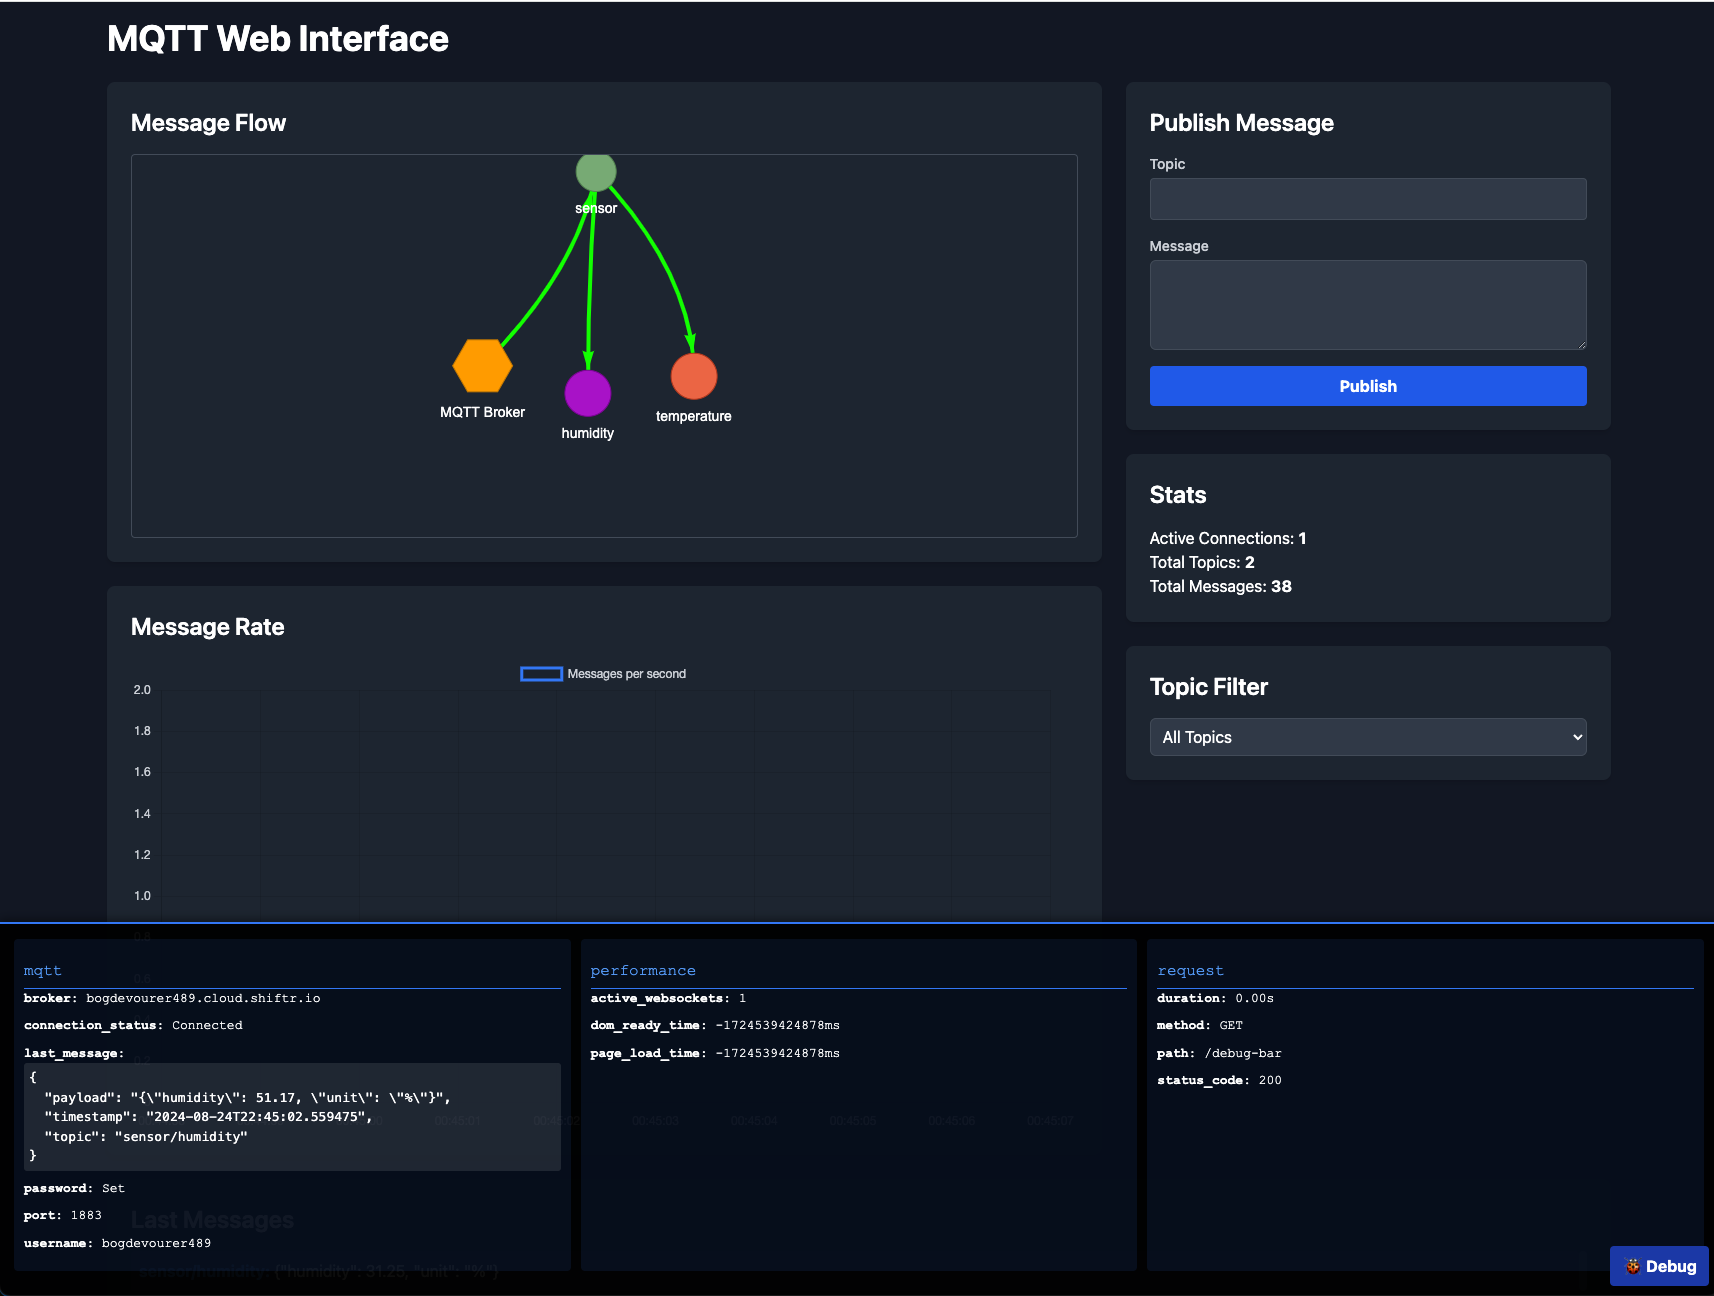
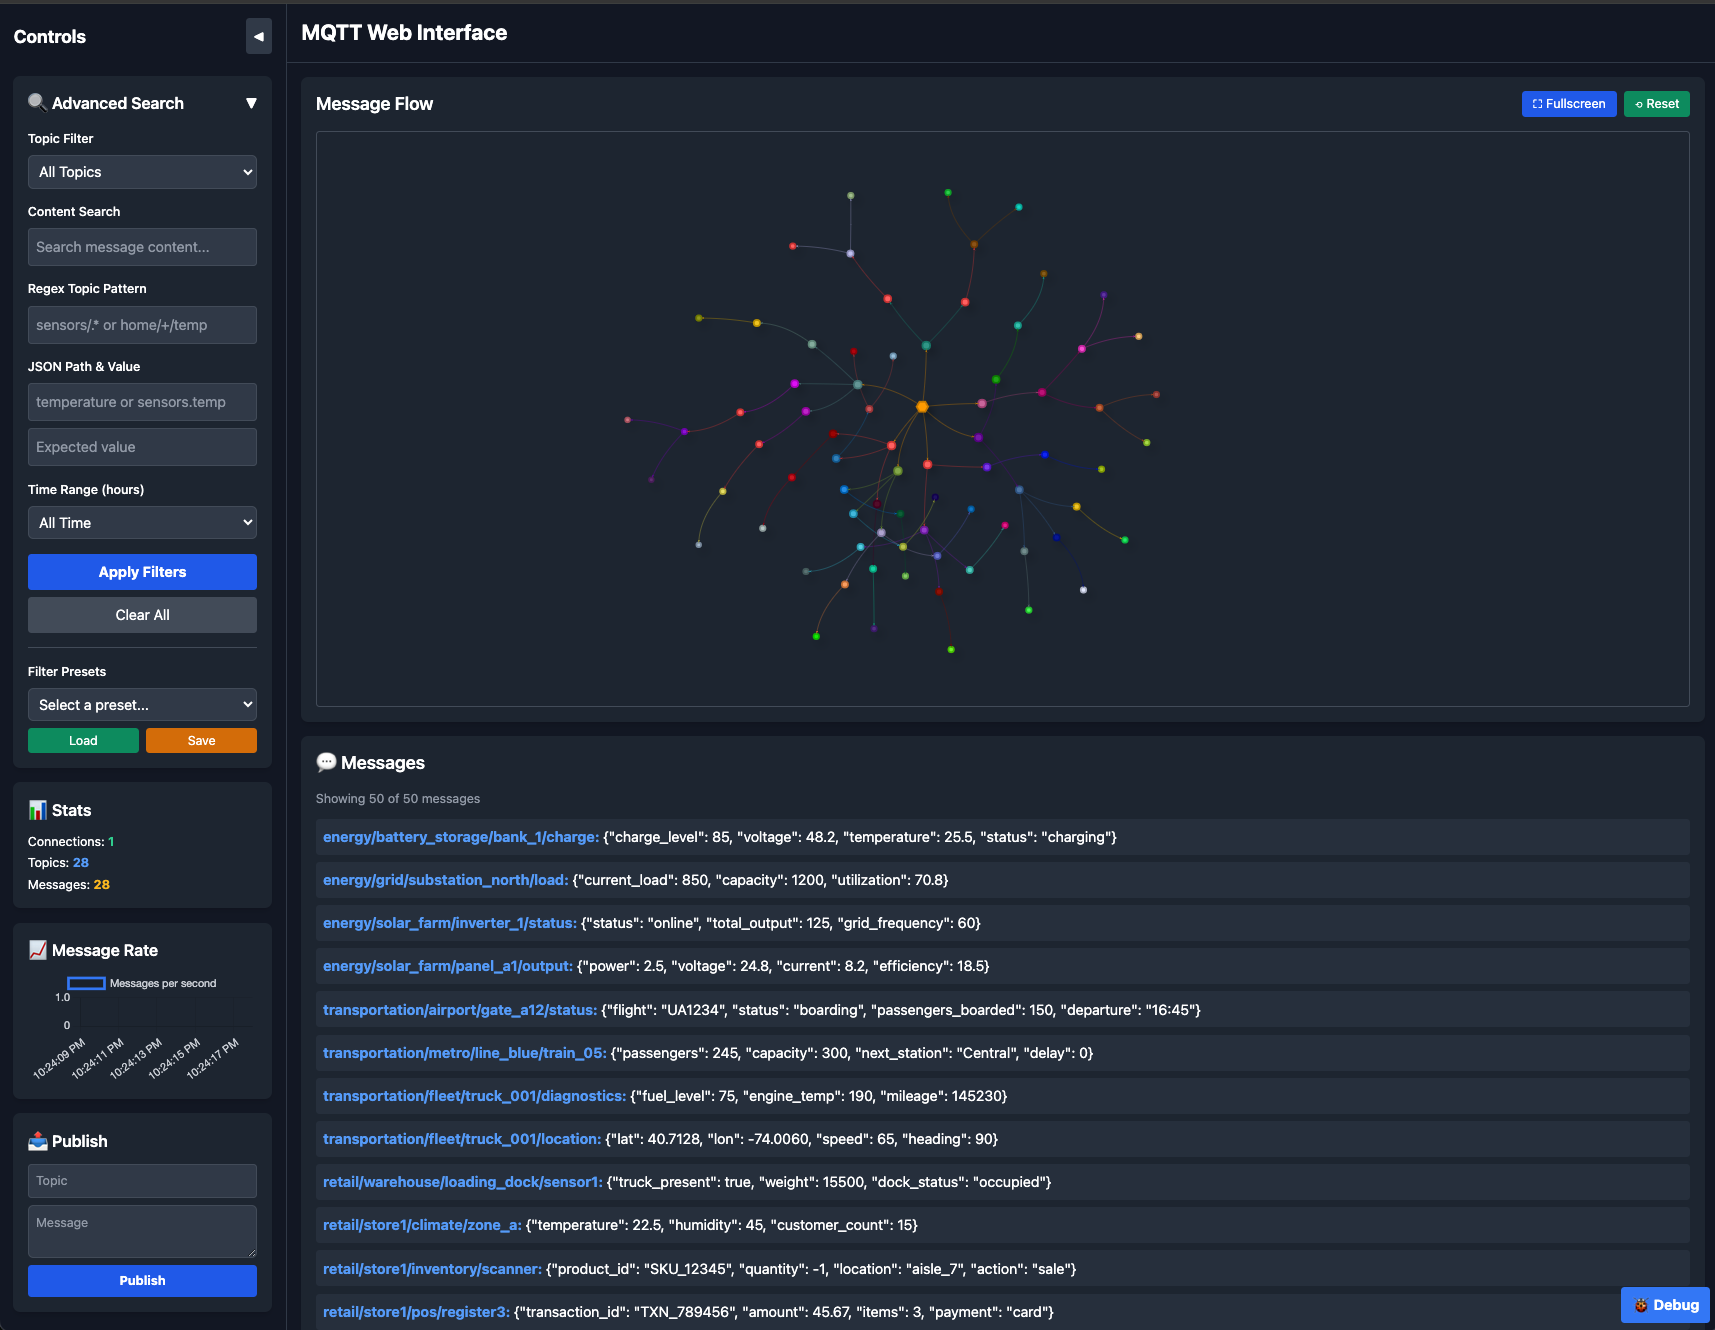
Update .gitignore to exclude log files with versioning, enhance CHANGELOG for v1.3.2 with new features and improvements, modify README to reflect recent changes, and update screenshots for better clarity.

diff --git a/static/script.js b/static/script.js
@@ -87,8 +87,9 @@ function initNetwork() {
             enabled: true,
             stabilization: {
                 enabled: true,
-                iterations: 100,
-                updateInterval: 25
+                iterations: 150,
+                updateInterval: 25,
+                fit: true
             },
             barnesHut: {
                 gravitationalConstant: -8000,
@@ -122,10 +123,24 @@ function initNetwork() {
             dragNodes: true,
             dragView: true,
             zoomView: true
+        },
+        layout: {
+            improvedLayout: true,
+            clusterThreshold: 150
         }
     };
 
     network = new vis.Network(container, data, options);
+    
+    // Auto-fit network after stabilization
+    network.on('stabilizationIterationsDone', function() {
+        network.fit({
+            animation: {
+                duration: 1000,
+                easingFunction: 'easeInOutQuad'
+            }
+        });
+    });
     
     // Add node pinning functionality
     let pinnedNodes = new Set();
@@ -202,6 +217,19 @@ function updateNetwork(message) {
                 shape: 'dot',
                 size: 20 - index * 2
             });
+            
+            // Auto-fit network when new nodes are added (with delay to avoid excessive fitting)
+            clearTimeout(window.autoFitTimeout);
+            window.autoFitTimeout = setTimeout(() => {
+                if (network) {
+                    network.fit({
+                        animation: {
+                            duration: 800,
+                            easingFunction: 'easeInOutQuad'
+                        }
+                    });
+                }
+            }, 2000);
         }
         if (parentId !== nodeId) {
             const edgeId = `${parentId}-${nodeId}`;
@@ -541,13 +569,41 @@ function setupAdvancedSearchHandlers() {
     
     document.getElementById('reset-nodes-btn').addEventListener('click', function() {
         if (network) {
-            network.fit();
-            // Reset node positions by recreating the network
-            const data = {
-                nodes: nodes,
-                edges: edges
-            };
-            network.setData(data);
+            // Unpin all nodes first
+            pinnedNodes.forEach(nodeId => {
+                const node = nodes.get(nodeId);
+                if (node) {
+                    nodes.update({
+                        id: nodeId,
+                        fixed: false,
+                        color: node.originalColor || '#97C2FC'
+                    });
+                }
+            });
+            pinnedNodes.clear();
+            
+            // Reset physics and fit to view
+            network.setOptions({
+                physics: {
+                    enabled: true,
+                    stabilization: {
+                        enabled: true,
+                        iterations: 150,
+                        updateInterval: 25,
+                        fit: true
+                    }
+                }
+            });
+            
+            // Fit network to container with animation
+            setTimeout(() => {
+                network.fit({
+                    animation: {
+                        duration: 1000,
+                        easingFunction: 'easeInOutQuad'
+                    }
+                });
+            }, 500);
         }
     });
 }

diff --git a/README.md b/README.md
@@ -6,12 +6,15 @@ MQTT Web Interface is an open-source web application that provides a real-time v
 
 ## Screenshot
 
-![Application Screenshot](static/screenshot.png)
+![Message Flow Screenshot](static/screenshot.png)
 
-![Debug Screenshot](static/screenshot_1.png)
+![Application Screenshot](static/screenshot_1.png)
+
+![Debug Screenshot](static/screenshot_2.png)
 
 ## Features
 
+### Core Functionality
 - Real-time visualization of MQTT topic hierarchy and message flow
 - Ability to publish messages to MQTT topics
 - Display of message statistics (connection count, topic count, message count)
@@ -20,6 +23,13 @@ MQTT Web Interface is an open-source web application that provides a real-time v
 - Debug Bar for enhanced developer insights
 - Flexible configuration for both development and production environments
 
+### New in v1.3.2
+- **Message Persistence**: SQLite database storage with automatic cleanup and configurable limits
+- **Advanced Search & Filtering**: Comprehensive message filtering with multiple search options
+- **Collapsible Sidebar Layout**: Maximize screen real estate for better visualization
+- **Interactive Network Features**: Node pinning, fullscreen mode, and improved layout
+- **Filter Presets**: Save and load frequently used search combinations
+
 ## Installation
 
 ### Using Docker (Recommended)
@@ -27,11 +37,26 @@ MQTT Web Interface is an open-source web application that provides a real-time v
 You can quickly get started with the MQTT Web Interface using Docker:
 
 ```bash
-docker pull terdia07/mqttui:v1.0.0
-docker run -p 5000:5000 terdia07/mqttui:v1.0.0
+docker pull terdia07/mqttui:v1.3.2
+docker run -p 8088:5000 terdia07/mqttui:v1.3.2
 ```
 
-Then access the application at `http://localhost:5000`
+Then access the application at `http://localhost:8088`
+
+#### Docker Compose (Full Setup with MQTT Broker)
+
+For a complete setup with an MQTT broker included:
+
+```bash
+git clone https://github.com/terdia/mqttui.git
+cd mqttui
+docker compose up -d
+```
+
+This will start:
+- Mosquitto MQTT broker on port 1883
+- MQTT Web Interface on port 8088
+- Automatic database persistence enabled
 
 ### Manual Installation
 
@@ -72,6 +97,44 @@ Then access the application at `http://localhost:5000`
    - Publish messages to topics
    - Monitor connection and message statistics
 
+## Using the New Features (v1.3.2)
+
+### Collapsible Sidebar
+- **Hide Sidebar**: Click the `◀` button in the sidebar header to maximize the Message Flow area
+- **Show Sidebar**: When hidden, click `▶ Show Controls` in the main header to restore the sidebar
+- **Purpose**: Get maximum screen real estate for viewing large MQTT network topologies
+
+### Interactive Network Visualization
+- **Pin Nodes**: Double-click any node to pin it in place (turns red when pinned)
+- **Unpin Nodes**: Double-click pinned (red) nodes to unpin them
+- **Right-click Menu**: Right-click nodes for pin/unpin context menu
+- **Fullscreen Mode**: Click `⛶ Fullscreen` button to view Message Flow in fullscreen
+- **Reset Layout**: Click `⟲ Reset` to reorganize all nodes and unpin everything
+- **Drag & Zoom**: Drag to pan the view, scroll to zoom in/out
+
+### Advanced Search & Filtering
+Click `🔍 Advanced Search` in the sidebar to expand filtering options:
+
+- **Topic Filter**: Select specific topics from dropdown
+- **Content Search**: Search within message payloads for specific text
+- **Regex Topic Pattern**: Use patterns like `sensors/.*` or `home/+/temp`
+- **JSON Path & Value**: Query JSON messages (e.g., path: `temperature`, value: `23.5`)
+- **Time Range**: Filter by last hour, 6 hours, 24 hours, or week
+- **Apply Filters**: Click to apply current filter combination
+- **Clear All**: Reset all filters to show all messages
+
+### Filter Presets
+- **Save Preset**: Configure filters, then click `Save` and enter a name
+- **Load Preset**: Select from dropdown and click `Load` to apply saved filters
+- **Preset Management**: Presets are stored in the database and persist between sessions
+
+### Message Persistence
+All MQTT messages are automatically stored in a local SQLite database:
+- **Automatic Storage**: Messages saved with timestamps, topic, payload, and metadata
+- **Configurable Limits**: Set `DB_MAX_MESSAGES` to control storage (default: 10,000)
+- **Auto Cleanup**: Old messages automatically removed when limit exceeded
+- **Search History**: All stored messages are searchable with advanced filters
+
 ## Configuration
 
 The following environment variables can be used to configure the application:
@@ -92,6 +155,12 @@ The following environment variables can be used to configure the application:
   - **Examples**: `sensors/#`, `home/+/temperature`, `sensors/temp,sensors/humidity`
 - `LOG_LEVEL`: Logging level for the application (default: 'INFO')
   - Options: `DEBUG`, `INFO`, `WARNING`, `ERROR`, `CRITICAL`
+
+### Database Configuration (New in v1.3.2)
+- `DB_ENABLED`: Enable message persistence (default: 'True')
+- `DB_PATH`: Path to SQLite database file (default: './data/mqtt_messages.db')
+- `DB_MAX_MESSAGES`: Maximum messages to store before cleanup (default: 10000)
+- `DB_CLEANUP_DAYS`: Delete messages older than X days (default: 30)
 
 ## Development Mode
 

diff --git a/CHANGELOG.md b/CHANGELOG.md
@@ -5,6 +5,44 @@ The format is based on [Keep a Changelog](https://keepachangelog.com/en/1.0.0/),
 and this project adheres to [Semantic Versioning](https://semver.org/spec/v2.0.0.html).
 
 
+## [1.3.2] - 2025-08-24
+### Added
+- **Complete UI Redesign**: Collapsible sidebar layout for maximum screen real estate utilization
+- **Advanced Search Panel**: Comprehensive message filtering with regex patterns, JSON path queries, content search, and time-based filters
+- **Message Persistence**: SQLite database storage with automatic cleanup and configurable message limits
+- **Filter Presets**: Save and load frequently used search filter combinations
+- **Network Visualization Enhancements**: 
+  - Node pinning functionality (double-click to pin/unpin nodes, red color indicates pinned)
+  - Improved physics engine with overlap prevention
+  - Fullscreen support for Message Flow diagram
+  - Right-click context menu for node management
+- **Collapsible Sidebar**: Hide/show controls panel to maximize Message Flow and Messages viewing area
+- **Enhanced API Endpoints**: 
+  - `/api/messages` with advanced filtering support
+  - `/api/topics` with statistics
+  - `/api/filter-presets` for preset management
+
+### Changed
+- **Layout Architecture**: Complete redesign from grid-based to flexbox sidebar layout
+- **Message Flow Area**: Now takes up significantly more screen space (up to 100% width when sidebar hidden)
+- **Message Rate Chart**: Moved to compact sidebar position for better space utilization
+- **Topic Filtering**: Now actually filters displayed messages instead of just clearing the list
+- **Advanced Search**: Collapsible panel, closed by default to reduce visual clutter
+- **Screen Space Optimization**: Removed unnecessary padding, maximized content area utilization
+
+### Fixed
+- **Topic Dropdown Functionality**: Fixed issue where topic selection only cleared messages instead of filtering
+- **Message Stacking**: Resolved overlapping div issue in the main content area
+- **Layout Responsiveness**: Proper flexbox implementation ensures consistent 50/50 split between Message Flow and Messages
+- **Database Thread Safety**: Implemented thread-local connections for concurrent message storage
+
+### Technical Improvements
+- **Database Schema**: Enhanced with indexes for better query performance
+- **Message Filtering**: Support for regex topic patterns, JSON path queries, and content search
+- **Network Physics**: Improved node positioning with `avoidOverlap` and better stabilization
+- **JavaScript Architecture**: Modular functions for filter management and UI interactions
+- **CSS Layout**: Modern flexbox implementation with smooth transitions and animations
+
 ## [1.3.1] - 2024-08-24
 ### Added
 - LOG_LEVEL environment variable support for controlling application logging verbosity (#9)
